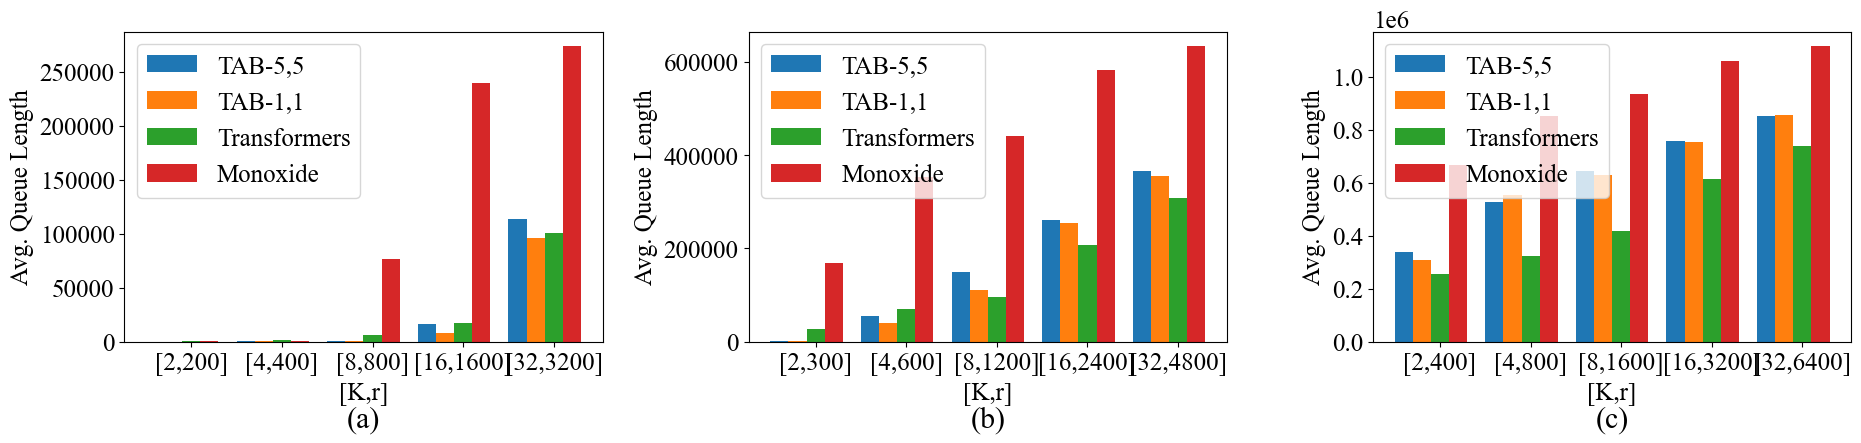
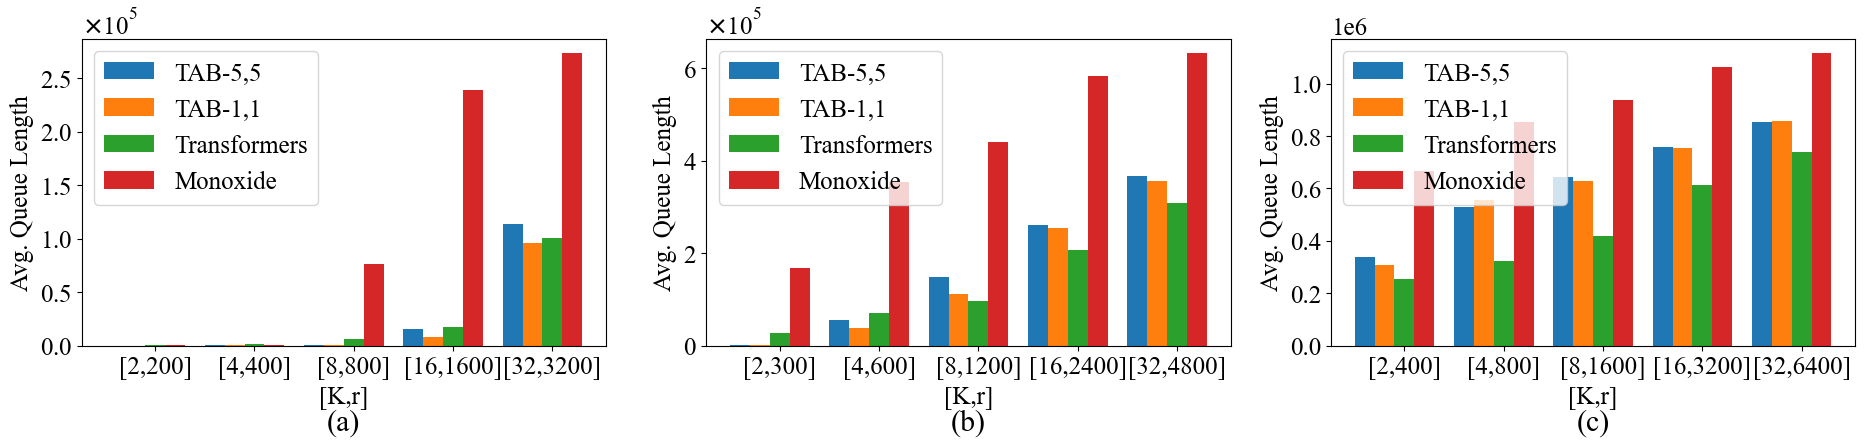
modify image

Changed region(s): [[0.0, 0.0293, 0.9973, 0.9684], [0.0, 0.0293, 0.3117, 0.6749]]

diff --git a/exp/plot.py b/exp/plot.py
@@ -9,12 +9,12 @@ from mpl_toolkits import mplot3d
 from exp.recorder import Recorder
 
 class Subplots:
-    def __init__(self, nrows=1, ncols=1, figsize=None, projection=None):
+    def __init__(self, nrows=1, ncols=1, figsize=None, projection=None, gridspec_kw=None):
         self.nrows = nrows
         self.ncols = ncols
         if figsize is None:
             figsize = (7*ncols-2, 5*nrows)
-        fig, axes = plt.subplots(nrows=nrows, ncols=ncols, squeeze=False, figsize=figsize, subplot_kw=dict(projection=projection))
+        fig, axes = plt.subplots(nrows=nrows, ncols=ncols, squeeze=False, figsize=figsize, subplot_kw=dict(projection=projection), gridspec_kw=gridspec_kw)
         self.fig = fig
         self.axes = axes
     
@@ -233,16 +233,18 @@ class RecordPloter(Ploter):
         ax.set_title(title)
         ax.set_xlabel(x_label)
         ax.set_ylabel(y_label)
+        if 'y_formatter' in kwargs:
+            ax.yaxis.set_major_formatter(kwargs['y_formatter'])
     
     def plot_cross_rate(self, filter=None, params=None, title='Cross Rate', **kwargs):
         records = self.get_records(filter)
         cross_dict = self._prepare_data(records, 'prop_cross_tx', params=params)
-        self._plot_bar(cross_dict, params=params, title=title, x_label='[K,r]', y_label='ε', **kwargs)
+        self._plot_bar(cross_dict, params=params, title=title, x_label='[K,r]', y_label='Cross Rate', **kwargs)
     
     def plot_utility(self, filter=None, params=None, title='Utility', **kwargs):
         records = self.get_records(filter)
         utility_dict = self._prepare_data(records, 'prop_wasted', params=params, operation=lambda x,_:1-x)
-        self._plot_bar(utility_dict, params=params, title=title, x_label='[K,r]', y_label='U', **kwargs)
+        self._plot_bar(utility_dict, params=params, title=title, x_label='[K,r]', y_label='Utilization', **kwargs)
 
     def plot_actual_throughput(self, filter=None, params=None, title='Actual Throughput', **kwargs):
         records = self.get_records(filter)
